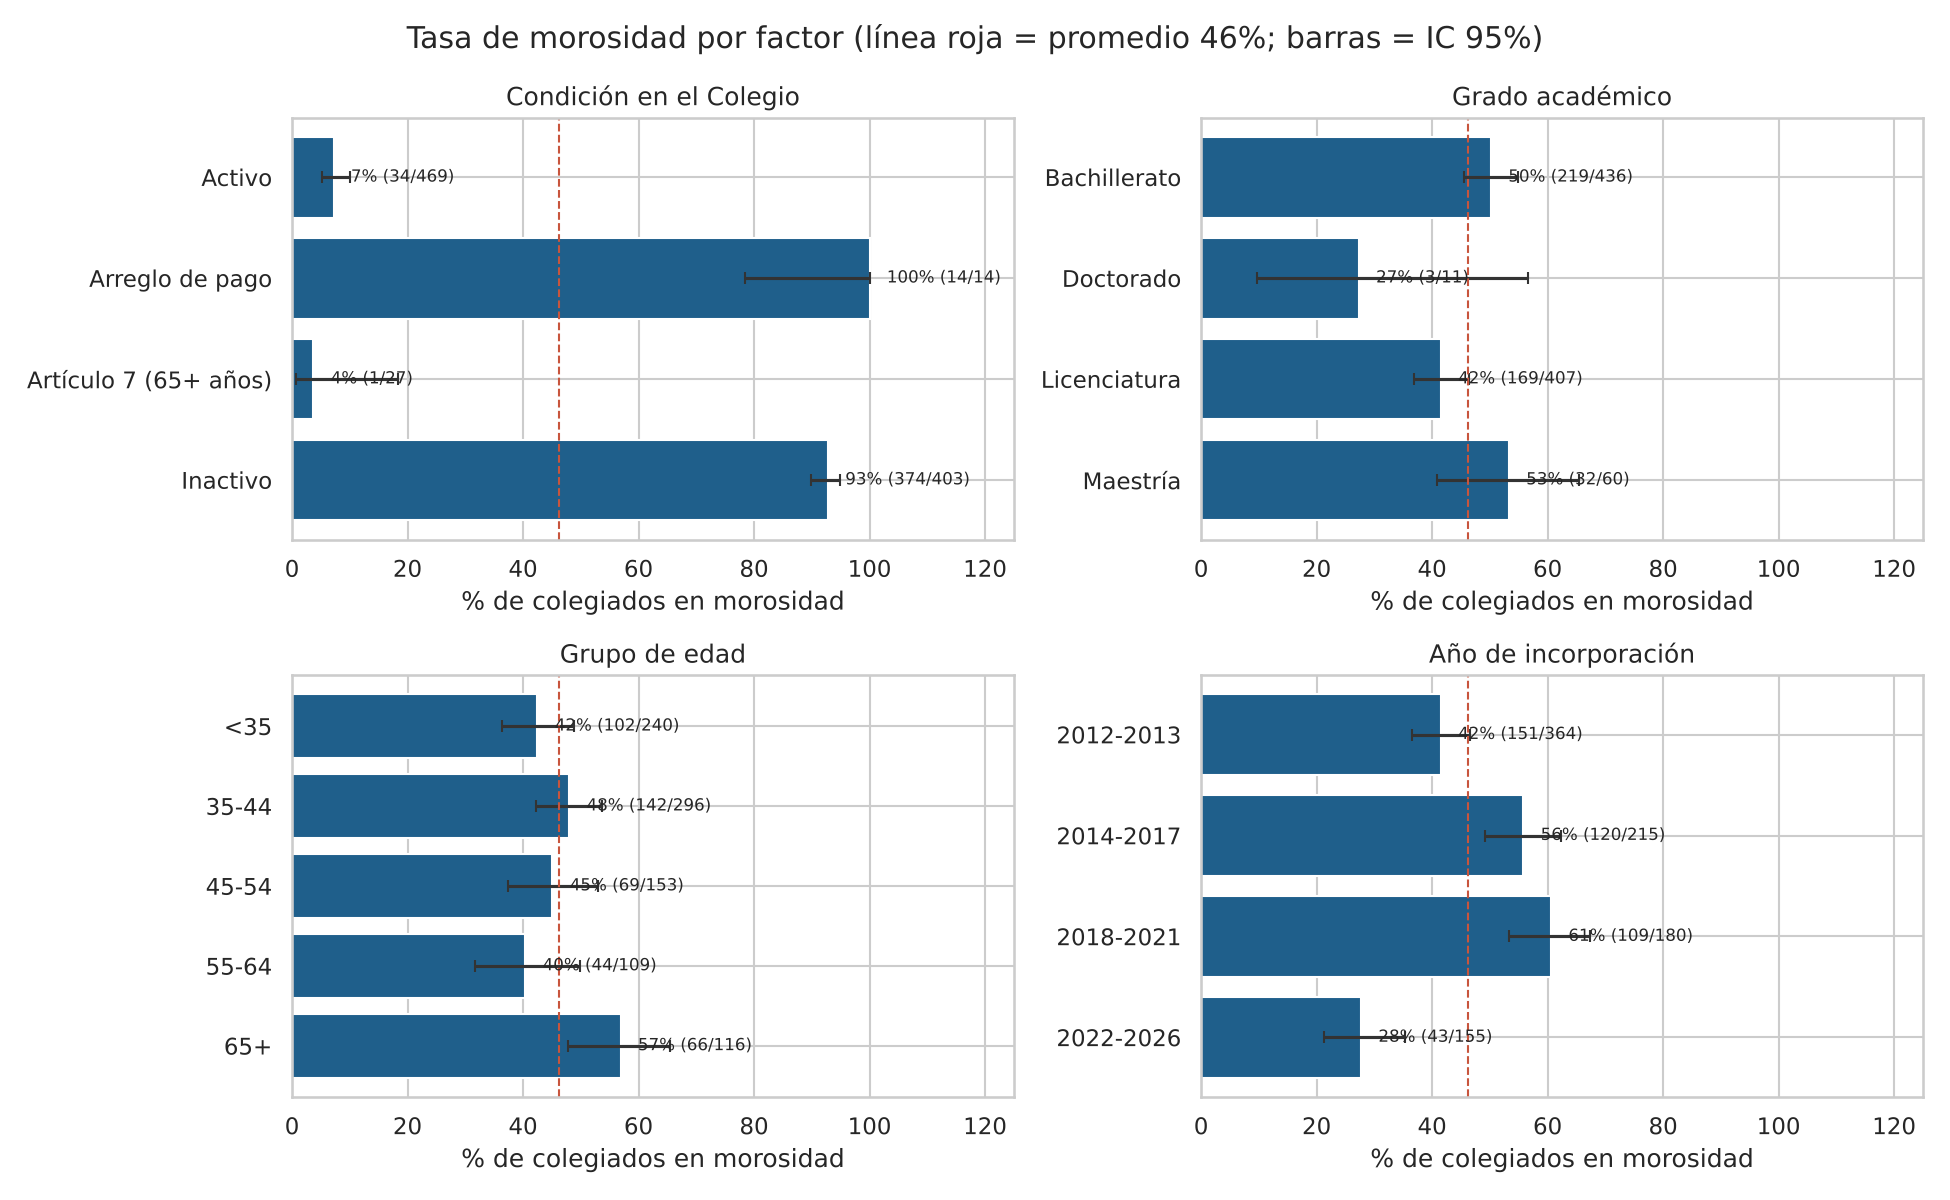
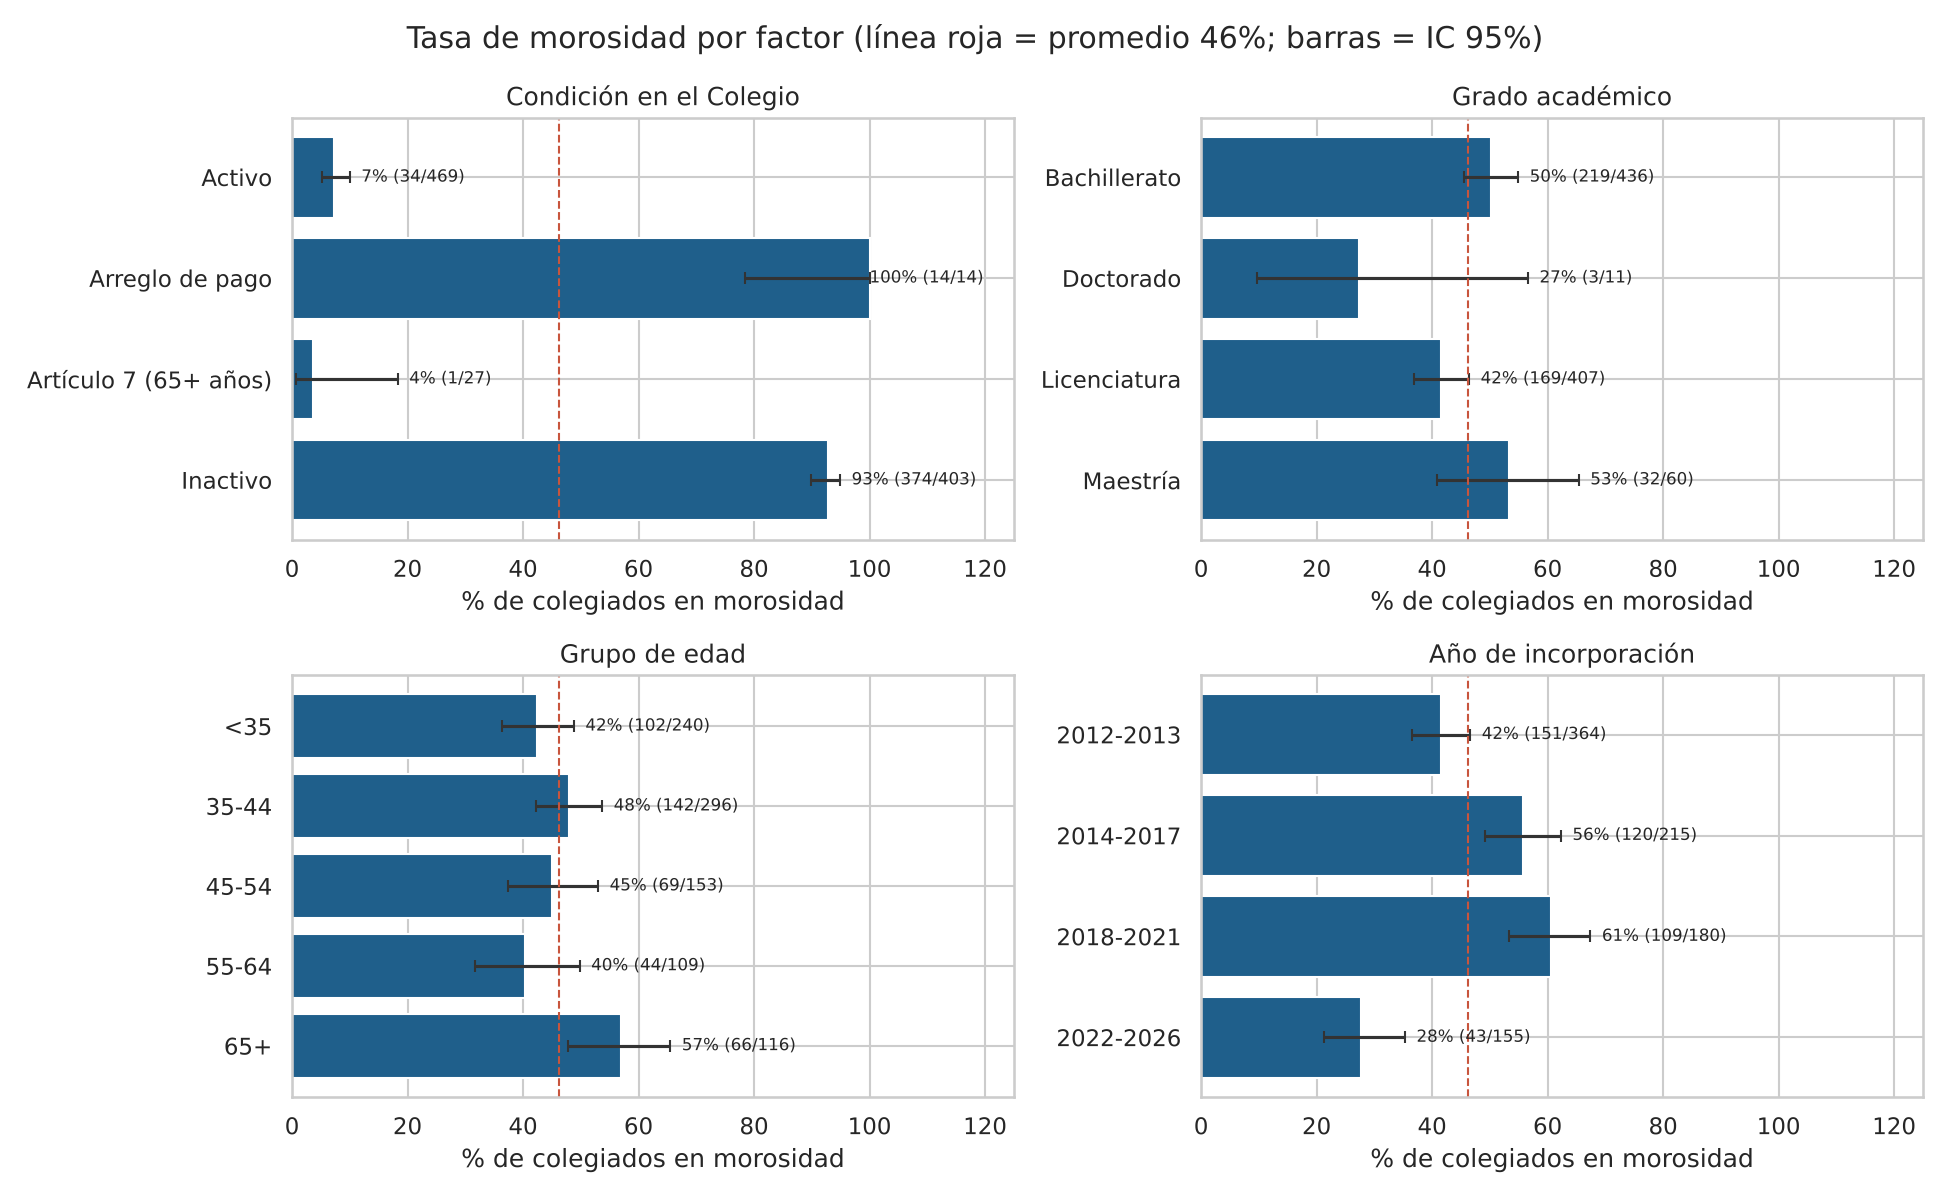
Ajusta etiquetas del gráfico y excluye __pycache__
Claude-Session: https://claude.ai/code/session_011cn2oC8KdNw1PNn42kUjFm

diff --git a/analisis/factores_morosidad.py b/analisis/factores_morosidad.py
@@ -140,8 +140,8 @@ def main():
         a.barh(y, t["tasa_%"], color=COLOR)
         a.errorbar(t["tasa_%"], y, xerr=[t["tasa_%"] - t["IC95_inf_%"], t["IC95_sup_%"] - t["tasa_%"]],
                    fmt="none", ecolor="#333", capsize=3)
-        for yi, (r, k, n) in enumerate(zip(t["tasa_%"], t["morosos"], t["colegiados"])):
-            a.text(min(r + 3, 112), yi, f"{r:.0f}% ({k}/{n})", va="center", fontsize=8)
+        for yi, (r, hi, k, n) in enumerate(zip(t["tasa_%"], t["IC95_sup_%"], t["morosos"], t["colegiados"])):
+            a.text(min(hi + 2, 100), yi, f"{r:.0f}% ({k}/{n})", va="center", fontsize=8)
         a.set_yticks(y); a.set_yticklabels(t.index.astype(str)); a.invert_yaxis()
         a.axvline(n_mor / n_tot * 100, color=COLOR2, ls="--", lw=1)
         a.set(title=tit, xlabel="% de colegiados en morosidad", xlim=(0, 125))
